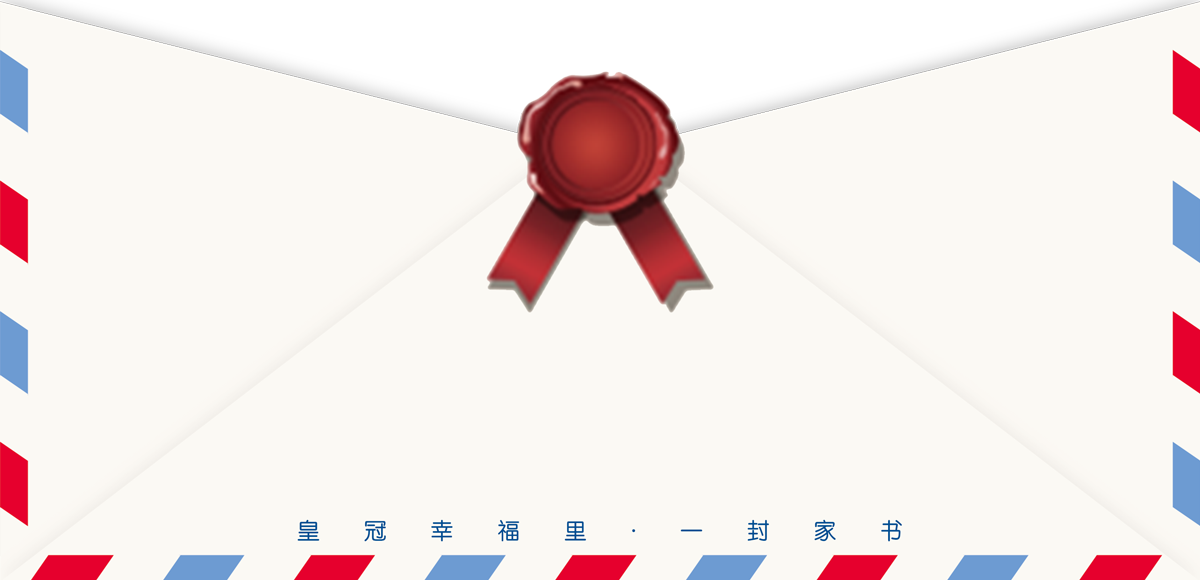
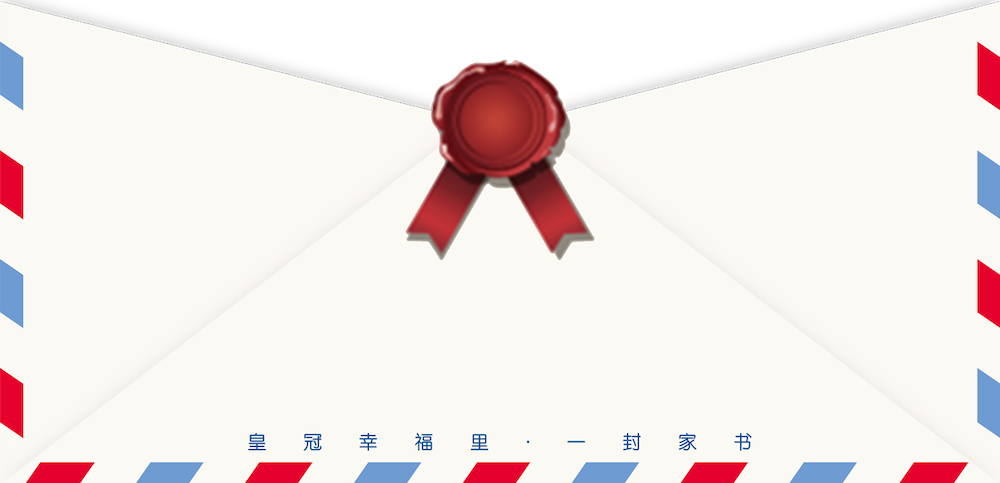
toast框字体调整

diff --git a/src/views/Letter.vue b/src/views/Letter.vue
@@ -160,6 +160,7 @@ export default {
   },
 
   mounted() {
+    //  兼容安卓界面被输入工具栏顶起问题
     var height = document.documentElement.clientHeight; //获取当前可视区域的高度存到hrt变量
     window.onload = function() {
       //在页面整体加载完毕时
@@ -273,7 +274,7 @@ export default {
 
 .logo {
   width: 100%;
-  height: 100px;
+  height: 130px;
   position: relative;
 }
 
@@ -283,14 +284,14 @@ export default {
 }
 
 .logo img:nth-child(1) {
-  width: 100px;
-  height: 100px;
-  right: 135px;
+  width: 80px;
+  height: 80px;
+  right: 105px;
 }
 
 .logo img:nth-child(2) {
-  width: 105px;
-  height: 100px;
+  width: 84px;
+  height: 80px;
   right: 0;
 }
 
@@ -305,7 +306,7 @@ export default {
   justify-content: center;
   align-items: center;
   position: absolute;
-  bottom: 220px;
+  bottom: 240px;
   left: calc((100vw - 660px) * 0.5);
   z-index: 30;
 }

diff --git a/api/modules/netbake.js b/api/modules/netbake.js
@@ -96,13 +96,13 @@ let _req = (url, content) => {
 
                 let decContent = decryptContent(resObject.content)
 
-                console.log('success')
-
+                console.log('success---')
+                console.log(decContent)
                 resolve(decContent)
 
             } else {    // POST请求失败
 
-                console.log('fail')
+                console.log('fail---')
                 console.log(bodyObj)
                 reject(bodyObj.Message || reject(JSON.parse(bodyObj).msg))
 

diff --git a/src/assets/css/base.css b/src/assets/css/base.css
@@ -21,6 +21,7 @@ body {
     -webkit-tap-highlight-color: transparent; /* webkit是苹果浏览器核心 tap点击 highlight 背景高亮 color颜色 颜色用数字调节 */
     /*background: var(--color-background);  背景色 */
     width: 100vw; /* 宽度为百分百视口宽度 */
+    height: 100vh;
     padding: 0;
     margin: 0;
     -webkit-touch-callout: none;

diff --git a/src/network/request.js b/src/network/request.js
@@ -4,7 +4,7 @@ export function request(config) {
   // 1.创建axios的实例
   const instance = axios.create({
     baseURL: 'http://123.207.32.32:8000',
-    timeout: 1000
+    timeout: 5000
   })
 
   // 2.axios的拦截器

diff --git a/src/App.vue b/src/App.vue
@@ -17,8 +17,5 @@ export default {
 
 <style>
 @import './assets/css/base.css';
-  #app {
-    width: 100vw;
-    height: 100vh;
-  }
+
 </style>
